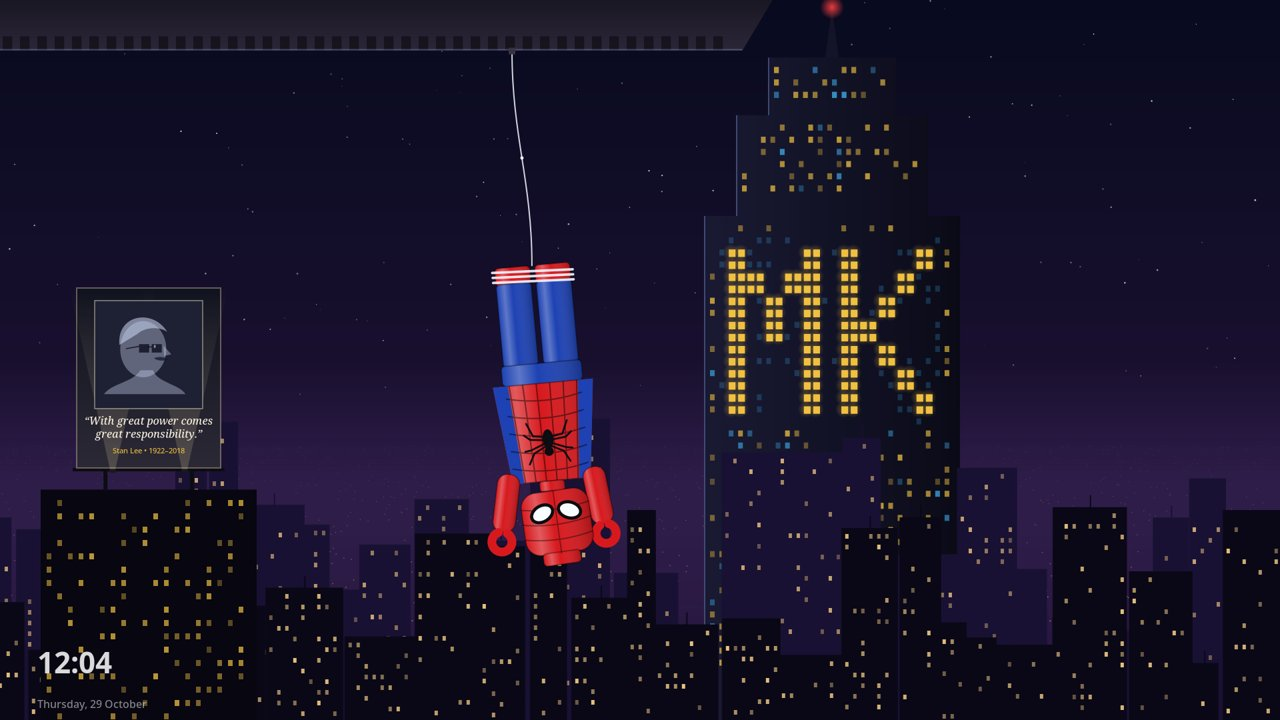
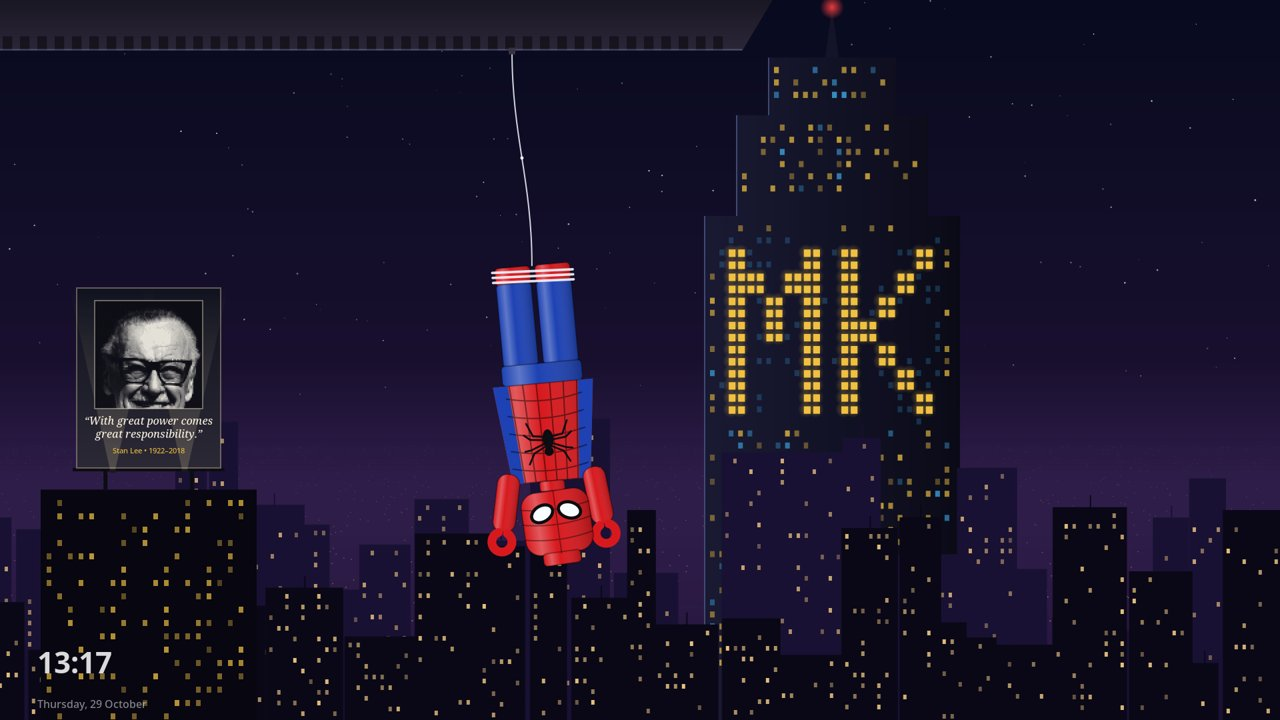
feat(scenes): the tribute billboard shows a real photo of Stan Lee, halftoned
Gage Skidmore's 2014 Phoenix Comicon portrait (CC BY-SA 3.0, Wikimedia
Commons), cropped and grayscale in assets/screensaver with its credit.
TRIBUTE_IMAGE or ~/.config/mk-workstation/tribute.jpg still replace it.
The drawn cartoon head is gone.

Changed region(s): [[0.0625, 0.3972, 0.1562, 0.5806], [0.0312, 0.8861, 0.0938, 0.9472]]

diff --git a/lib/mkworkstation/scenes.py b/lib/mkworkstation/scenes.py
@@ -6,7 +6,7 @@
            web line beside a skyscraper whose lit windows spell SIGN_TEXT
            (screensaver.conf, MK by default, up to four letters), over the
            city (two parallax layers), with a tribute to Stan Lee on a
-           rooftop billboard (TRIBUTE_IMAGE, halftoned); lightning
+           rooftop billboard (a halftone photo; TRIBUTE_IMAGE swaps it); lightning
   knight   a brick-built caped knight stands on a stone gargoyle in the rain;
            the cape moves in the wind, a searchlight sweeps the clouds and
            lights him from behind, lightning
@@ -478,26 +478,29 @@ def sign_cells(text):
 
 
 _PORTRAIT = Path.home() / ".config/mk-workstation/tribute.jpg"
+# Stan Lee by Gage Skidmore, CC BY-SA 3.0 (assets/screensaver/CREDITS.md)
+_BUNDLED = Path(__file__).resolve().parents[2] / "assets/screensaver/stan-lee.jpg"
 
 
 def tribute_portrait(size):
-    """A square halftone of ~/.config/mk-workstation/tribute.jpg (a photo
-    you choose), SIZE pixels; None without one, and the billboard draws a
-    silhouette instead."""
-    path = Path(conf_value("TRIBUTE_IMAGE", "") or _PORTRAIT).expanduser()
-    if size < 16 or not path.is_file():
+    """A square halftone portrait, SIZE pixels: TRIBUTE_IMAGE, else
+    ~/.config/mk-workstation/tribute.jpg, else the bundled photo of Stan Lee.
+    False when none can be read (the frame stays dark)."""
+    path = next((p for p in (Path(conf_value("TRIBUTE_IMAGE", "") or "/nonexistent").expanduser(),
+                             _PORTRAIT, _BUNDLED) if p.is_file()), None)
+    if size < 16 or path is None:
         return False
     try:
         from PIL import Image, ImageOps
         img = ImageOps.autocontrast(ImageOps.fit(Image.open(path).convert("L"), (size, size)), cutoff=2)
-    except Exception:  # noqa: BLE001 - any bad file: fall back to the silhouette
+    except Exception:  # noqa: BLE001 - any bad file: the frame stays dark
         return False
     surf = cairo.ImageSurface(cairo.FORMAT_ARGB32, size, size)
     cr = cairo.Context(surf)
     cr.set_source_rgb(0.95, 0.94, 0.9)  # newsprint
     cr.paint()
     cr.set_source_rgb(0.05, 0.05, 0.08)
-    cell = max(3, size // 48)
+    cell = max(2, size // 64)
     px = img.load()
     for y in range(0, size, cell):
         for x in range(0, size, cell):
@@ -518,7 +521,7 @@ def conf_value(key, default):
 
 def billboard(cr, x, y, bw, bh, t, ground, portrait=None):
     """Stan Lee's tribute on its own building: a lit frame with his portrait
-    (halftone, or a silhouette), his line beneath it and 1922-2018, two lamps
+    (a halftone photo), his line beneath it and 1922-2018, two lamps
     shining up at it, on steel legs on the roof (down to GROUND)."""
     cr.save()
     roof = y + bh * 1.12
@@ -576,11 +579,6 @@ def billboard(cr, x, y, bw, bh, t, ground, portrait=None):
         cr.set_source_rgb(0.12, 0.13, 0.2)
         cr.rectangle(px, py, side, side)
         cr.fill()
-        cr.save()
-        cr.rectangle(px, py, side, side)
-        cr.clip()
-        stan_lee(cr, px + side * 0.45, py + side * 0.45, side * 0.26, 1.0)
-        cr.restore()
     cr.set_source_rgba(1, 0.95, 0.85, 0.5)
     cr.set_line_width(1.5)
     cr.rectangle(px, py, side, side)
@@ -605,58 +603,6 @@ def billboard(cr, x, y, bw, bh, t, ground, portrait=None):
     ext = cr.text_extents(sub)
     cr.move_to(x + (bw - ext.x_advance) / 2, top + 2 * size * 1.25 + size * 0.2)
     cr.show_text(sub)
-    cr.restore()
-
-
-def stan_lee(cr, x, y, r, alpha):
-    """A stylized silhouette facing right, lit by the lightning: swept-back
-    hair, the big tinted glasses, the moustache. R is the head's radius."""
-    cr.save()
-    cr.translate(x, y)
-    pale = (0.80, 0.84, 0.95)
-    cr.set_source_rgba(*pale, 0.38 * alpha)
-    cr.save()  # head
-    cr.scale(0.82, 1.0)
-    cr.arc(0, 0, r, 0, 2 * math.pi)
-    cr.restore()
-    cr.fill()
-    cr.move_to(-r * 0.85, -r * 0.15)  # hair, swept back in a wave
-    cr.curve_to(-r * 0.95, -r * 1.25, r * 0.35, -r * 1.45, r * 0.85, -r * 0.62)
-    cr.curve_to(r * 0.55, -r * 0.82, r * 0.05, -r * 0.78, -r * 0.2, -r * 0.55)
-    cr.close_path()
-    cr.set_source_rgba(*pale, 0.55 * alpha)
-    cr.fill()
-    cr.move_to(r * 0.72, -r * 0.12)  # nose
-    cr.line_to(r * 1.0, r * 0.18)
-    cr.line_to(r * 0.74, r * 0.24)
-    cr.close_path()
-    cr.set_source_rgba(*pale, 0.38 * alpha)
-    cr.fill()
-    cr.move_to(-r * 0.1, r * 0.75)  # neck and shoulders
-    cr.line_to(r * 0.35, r * 0.75)
-    cr.curve_to(r * 0.5, r * 1.2, r * 1.3, r * 1.25, r * 1.5, r * 1.6)
-    cr.line_to(-r * 1.4, r * 1.6)
-    cr.curve_to(-r * 1.1, r * 1.2, -r * 0.4, r * 1.2, -r * 0.1, r * 0.75)
-    cr.close_path()
-    cr.fill()
-    for gx in (r * 0.05, r * 0.5):  # the glasses: two big dark lenses and a bridge
-        cr.rectangle(gx - r * 0.2, -r * 0.18, r * 0.36, r * 0.3)
-    cr.set_source_rgba(0.05, 0.06, 0.12, 0.8 * alpha)
-    cr.fill()
-    cr.move_to(r * 0.16, -r * 0.08)
-    cr.line_to(r * 0.3, -r * 0.08)
-    cr.move_to(-r * 0.15, -r * 0.1)
-    cr.line_to(-r * 0.6, -r * 0.02)  # the arm to the ear
-    cr.set_line_width(max(1.0, r * 0.04))
-    cr.stroke()
-    cr.set_source_rgba(1, 1, 1, 0.5 * alpha)  # a glint of lightning on a lens
-    cr.rectangle(r * 0.38, -r * 0.15, r * 0.06, r * 0.1)
-    cr.fill()
-    cr.move_to(r * 0.38, r * 0.32)  # moustache
-    cr.curve_to(r * 0.55, r * 0.24, r * 0.82, r * 0.28, r * 0.88, r * 0.38)
-    cr.curve_to(r * 0.7, r * 0.42, r * 0.5, r * 0.42, r * 0.38, r * 0.32)
-    cr.set_source_rgba(0.08, 0.09, 0.16, 0.75 * alpha)
-    cr.fill()
     cr.restore()
 
 

diff --git a/docs/FEATURES.md b/docs/FEATURES.md
@@ -42,7 +42,7 @@ Credit for everything in the last two groups belongs to its authors; see
 | **Shortcuts window** | Every shortcut and gesture, live from GNOME; marks each working, clashing, unset or broken; change keys, add commands, reset | Super+/ |
 | **Companion** | Notes you pin, reorder and fold; tasks with progress; reminders (in N min, at a time, daily/weekly) that fire even when closed; morning brief; welcome greeting editor | Super+Shift+N |
 | **Focus timer** | Type a time (`25`, `1:30`, `90s`) and press Enter, or pick a preset; hides into a top-bar countdown; step away and one of the screensaver scenes plays with a small countdown (or the classic Aurora with the big ring; Surprise me never repeats the last one); can silence notifications; pixel-robot celebration with fireworks and a sound of your choice (Chime, Bell, Soft, Alarm clock or Silent) | Companion › Focus timer, `mk focus 25` |
-| **Screensaver** (`mk-screensaver`) | Plays a full-screen scene after a few idle minutes (3 by default), chosen in the Screensaver app from live previews or shuffled (never the same twice running): Web Hang (a brick-built masked hero hanging from a web beside a skyscraper whose lit windows spell `SIGN_TEXT`, up to four letters; a Stan Lee tribute billboard, halftoned from a photo you set as `TRIBUTE_IMAGE`, a silhouette otherwise), Night Watch (a brick-built caped knight on a gargoyle in the rain, rim-lit by a searchlight), Terminal Stream (hex code rain in cyan and amber decoding the time) or Aurora; never over a video or call; any touch ends it; GNOME still locks at its own time | `mk screensaver`, `config/screensaver.conf` |
+| **Screensaver** (`mk-screensaver`) | Plays a full-screen scene after a few idle minutes (3 by default), chosen in the Screensaver app from live previews or shuffled (never the same twice running): Web Hang (a brick-built masked hero hanging from a web beside a skyscraper whose lit windows spell `SIGN_TEXT`, up to four letters; a Stan Lee tribute billboard: a halftone of his photo by Gage Skidmore, CC BY-SA 3.0, or any photo set as `TRIBUTE_IMAGE`), Night Watch (a brick-built caped knight on a gargoyle in the rain, rim-lit by a searchlight), Terminal Stream (hex code rain in cyan and amber decoding the time) or Aurora; never over a video or call; any touch ends it; GNOME still locks at its own time | `mk screensaver`, `config/screensaver.conf` |
 | **Control Center** (`mk-center`) | Home: quick actions (free memory, vault, text from screen, speed test) and App Nap; Actions: every `mk` command as a searchable card with pins; MK Lock (apps, folders, vault, Lock all now, private notebooks) and the security check with fix buttons | `mk center`, app grid |
 | **Tour** (`mk-tour`) | A four-page welcome at the first login; `mk tour` for the full 16-page walkthrough of the top bar, windows, desktops, shortcuts, Notes, Companion, screensaver, sign-in (from your hardware: enroll a finger, set up one or two faces), the Control Center, locks and vault, Photo Booth, emoji, security and the `mk` command, each with a button to try it | Super+Shift+/, `mk tour`, app grid |
 | **App and folder locks** (`mk-lock`) | Apps that ask for your fingerprint or password before they start; folders encrypted with gocryptfs that open only after the same check and close when the screen locks; an optional password of each item's own; Vault, a hidden encrypted folder | `mk lock app NAME`, `mk lock ~/Folder`, `mk vault`, Control Center › MK Lock, Files › right-click Lock / Unlock (badge on locked folders) |

diff --git a/README.md b/README.md
@@ -324,7 +324,7 @@ Fork, change, run `just check`, open a pull request. See [CONTRIBUTING.md](CONTR
 
 ## Credits
 
-Ideas adopted from [fedorable](https://github.com/chetripley/fedorable), [PYFO](https://github.com/d4rklynk/PYFO), [Linutil](https://github.com/ChrisTitusTech/linutil), [Universal Blue Bluefin](https://projectbluefin.io/) and the [RPM Fusion](https://rpmfusion.org/) howtos. Face unlock is powered by [Howdy](https://github.com/boltgolt/howdy). Extensions belong to their authors on [extensions.gnome.org](https://extensions.gnome.org/).
+Ideas adopted from [fedorable](https://github.com/chetripley/fedorable), [PYFO](https://github.com/d4rklynk/PYFO), [Linutil](https://github.com/ChrisTitusTech/linutil), [Universal Blue Bluefin](https://projectbluefin.io/) and the [RPM Fusion](https://rpmfusion.org/) howtos. Face unlock is powered by [Howdy](https://github.com/boltgolt/howdy). Extensions belong to their authors on [extensions.gnome.org](https://extensions.gnome.org/). The Stan Lee photo in the Web Hang screensaver is by Gage Skidmore, [CC BY-SA 3.0](assets/screensaver/CREDITS.md).
 
 ## License
 

diff --git a/assets/screensaver/CREDITS.md b/assets/screensaver/CREDITS.md
@@ -1,0 +1,9 @@
+# Screensaver assets
+
+`stan-lee.jpg`: Stan Lee at the 2014 Phoenix Comicon, photographed by
+Gage Skidmore, from Wikimedia Commons
+(https://commons.wikimedia.org/wiki/File:Stan_Lee_by_Gage_Skidmore_3.jpg),
+licensed CC BY-SA 3.0 (https://creativecommons.org/licenses/by-sa/3.0/).
+Changes: cropped to the head and shoulders, converted to grayscale, resized
+to 384 x 384. This file is shared under the same licence. Web Hang turns it
+into a halftone at run time for its tribute billboard.
